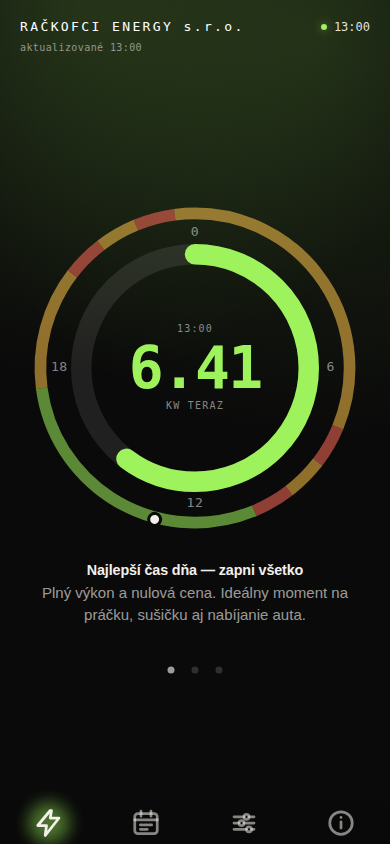
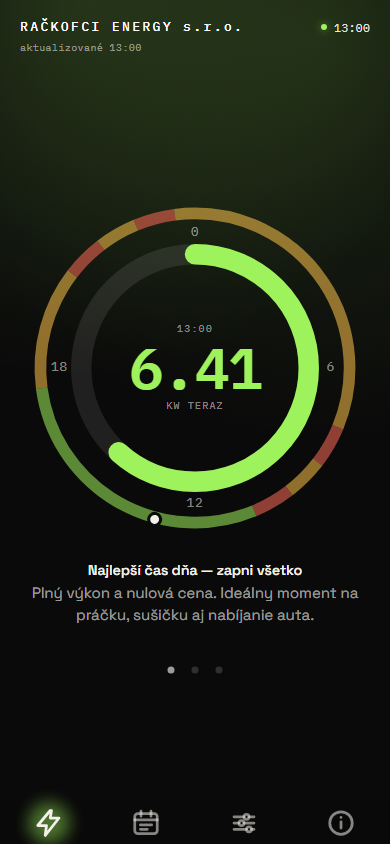
fix: popisok kW v ciferníku späť pod číslo, nové snímky do README
Pravidlo .unit pre jednotky v poliach Nastavenia (#153) chytilo aj popisok
pod číslom v ciferníku a odsunulo ho absolútne k pravému okraju cez hodinu 6.
Pravidlo je teraz obmedzené na .unit-wrap, e2e test kontroluje polohu popisku.

Snímky sú pregenerované, generátor ide aj na Windows (bez npx a pathname).

diff --git a/test/screenshots/generate.js b/test/screenshots/generate.js
@@ -4,6 +4,7 @@
 // Prehliadač berie skript ten, ktorý má nainštalovaný Playwright. Keď treba iný (napr. keď
 // je v systéme len staršia verzia), dá sa podstrčiť cez CHROMIUM_PATH=/cesta/k/chromium.
 import { spawn } from 'node:child_process';
+import { fileURLToPath } from 'node:url';
 import { chromium } from '@playwright/test';
 import { PLANT, SETTINGS_STORAGE_KEY, SITE, WORKER_PV_URL } from '../../shared/config.js';
 import { toUser } from '../../shared/settings.js';
@@ -33,7 +34,9 @@ async function pockajNaServer(url, pokusy = 40) {
     throw new Error(`Server na ${url} nenaskočil`);
 }
 
-const server = spawn('npx', ['http-server', '-p', String(PORT), '-c-1', '-s', '.'], { stdio: 'ignore' });
+// Priamo cez node, nie cez npx: na Windows je npx len .cmd, ktorý spawn bez shellu nenájde.
+const httpServer = fileURLToPath(new URL('../../node_modules/http-server/bin/http-server', import.meta.url));
+const server = spawn(process.execPath, [httpServer, '-p', String(PORT), '-c-1', '-s', '.'], { stdio: 'ignore' });
 try {
     const url = `http://127.0.0.1:${PORT}/`;
     await pockajNaServer(url);
@@ -59,7 +62,7 @@ try {
         await page.locator(`#${nav}`).click();
         // Písma z CDN a prvé prekreslenie po prepnutí karty.
         await page.waitForTimeout(400);
-        await page.screenshot({ path: new URL(`../../docs/img/${subor}`, import.meta.url).pathname });
+        await page.screenshot({ path: fileURLToPath(new URL(`../../docs/img/${subor}`, import.meta.url)) });
         console.log(`hotovo: docs/img/${subor}`);
     }
     await browser.close();

diff --git a/test/e2e/app.spec.js b/test/e2e/app.spec.js
@@ -363,6 +363,16 @@ test('pri nulovej výrobe neostane na prstenci bodka', async ({ page }) => {
     await expect(ring).toHaveCSS('stroke-linecap', 'butt');
 });
 
+test('popisok jednotky v ciferníku sedí pod číslom, nie pri okraji', async ({ page }) => {
+    await openApp(page);
+    // Pravidlo .unit pre polia v Nastavení ho raz chytilo tiež a odsunulo cez hodinu 6.
+    const val = await page.locator('#pv-power').boundingBox();
+    const unit = await page.locator('#pv-power-unit').boundingBox();
+    if (!val || !unit) throw new Error('číslo alebo popisok nemá rozmer');
+    expect(unit.y).toBeGreaterThanOrEqual(val.y + val.height - 1);
+    expect(Math.abs(unit.x + unit.width / 2 - (val.x + val.width / 2))).toBeLessThan(4);
+});
+
 /** Poradie viditeľných blokov karty 7 dní zhora nadol - tak, ako ich vidí používateľ
  * (CSS `order` mení poradie oproti HTML). @param {import('@playwright/test').Page} page */
 function viditelneBloky(page) {

diff --git a/style.css b/style.css
@@ -2012,7 +2012,9 @@ b {
 .unit-wrap .field-input {
     padding-right: 44px;
 }
-.unit {
+/* Len vnútri poľa: holé .unit by chytilo aj popisok pod číslom v ciferníku a odsunulo ho
+   k pravému okraju cez hodinu 6. */
+.unit-wrap .unit {
     position: absolute;
     right: 12px;
     top: 50%;
